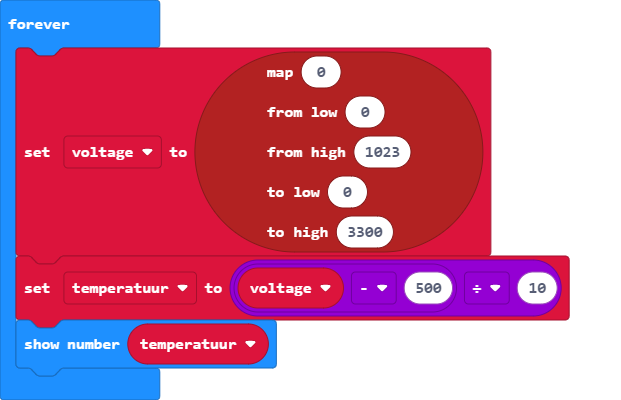
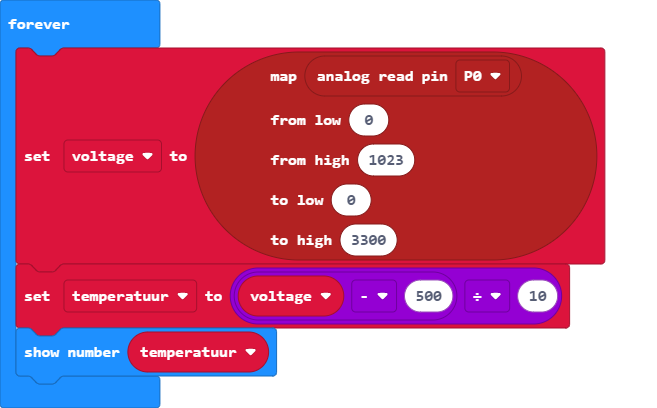
Fix analog pin0 read-out

Changed region(s): [[0.0, 0.0, 0.9485, 1.0], [0.0918, 0.9, 0.1224, 0.93], [0.0306, 0.9, 0.0612, 0.93]]

diff --git a/main.ts b/main.ts
@@ -2,7 +2,7 @@ let voltage = 0
 let temperatuur = 0
 basic.forever(function () {
     voltage = pins.map(
-    0,
+    pins.analogReadPin(AnalogPin.P0),
     0,
     1023,
     0,
